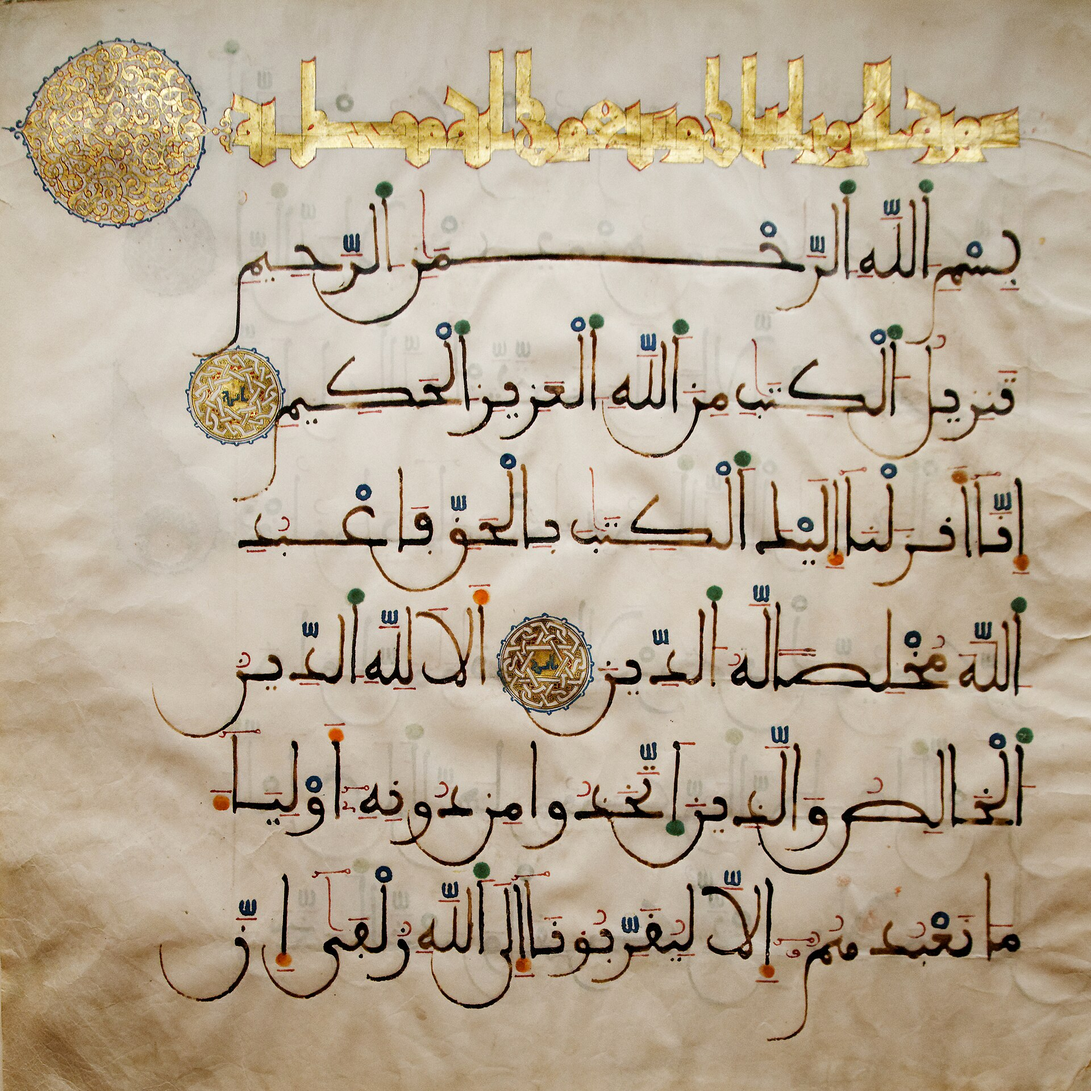
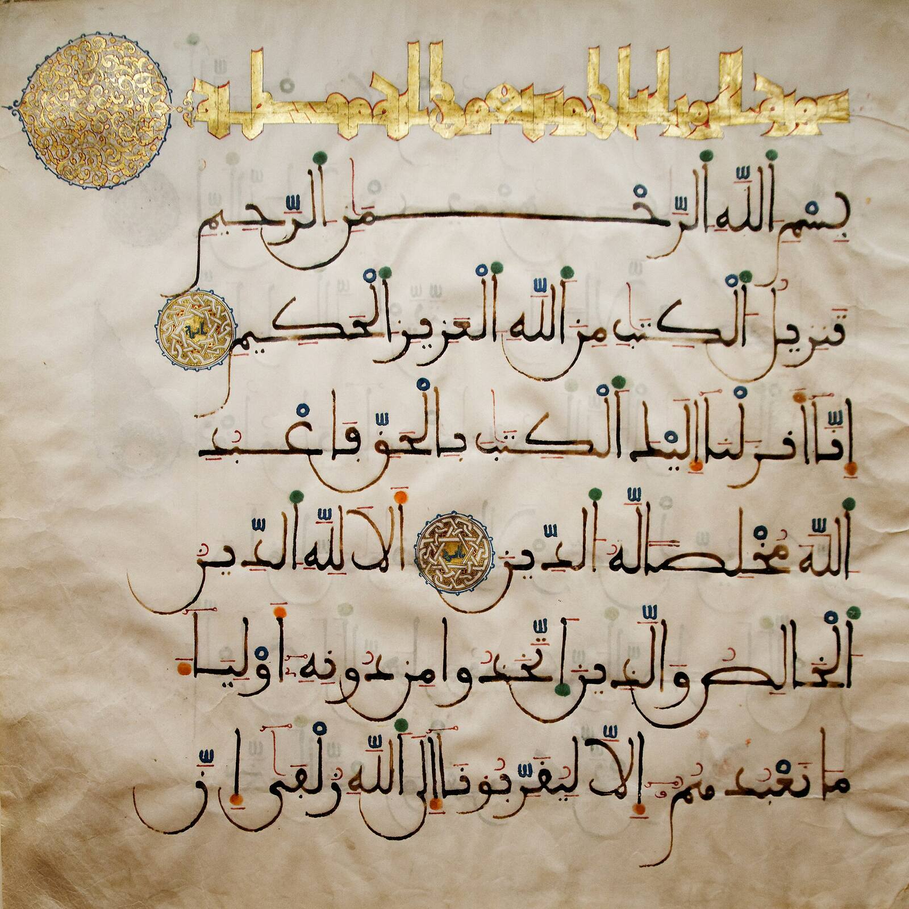
Warm up the bottom bar's tabs first (#577)
* Fetch the bottom bar's tabs first when warming up

On a slow phone the background queue takes seconds, so a bar tab tapped
early waited its turn. Measured (4x CPU, live API, tap 1.5s after load):
Quran 426ms -> 162ms; other tabs unchanged.

Claude-Session: https://claude.ai/code/session_01Kf2x99Bn2ggLLPZYn8hQbc

* Test title says only what firstThese guarantees

Claude-Session: https://claude.ai/code/session_01Kf2x99Bn2ggLLPZYn8hQbc

* Shrink the landing page's manuscript photo (811 KB → 317 KB)

It shows at most screen width, so 1600 px is enough; looks the same by eye.

Claude-Session: https://claude.ai/code/session_01Kf2x99Bn2ggLLPZYn8hQbc

---------

diff --git a/frontend/src/App.jsx b/frontend/src/App.jsx
@@ -1,8 +1,8 @@
-import { Activity, Suspense, lazy, useCallback, useEffect, useState } from 'react'
+import { Activity, Suspense, lazy, useCallback, useEffect, useRef, useState } from 'react'
 import { QueryClient, QueryClientProvider } from '@tanstack/react-query'
 
 import { FIXED, GROUPS, HOME, LISTED, TABS, accentOf } from './lib/tabs'
-import { idle, inTurn } from './lib/warm'
+import { firstThese, idle, inTurn } from './lib/warm'
 import { useHealth } from './lib/useHealth'
 import { moodFrom } from './lib/mood'
 import { TOOLS } from './lib/tools'
@@ -64,7 +64,13 @@ function AppContent() {
 
   // Every tab's opening data, fetched once the page is idle, one tab at a time
   // so a tab pressed meanwhile is not queued behind all the others (lib/warm).
-  useEffect(() => { idle(() => inTurn(TABS.map((t) => () => openTab(t.id)))) }, [])
+  // The bar's tabs go first: on a slow phone the queue takes seconds, and a tab
+  // that has to wait its turn opened in ~430ms where one fetched ahead took ~160ms.
+  const openingDock = useRef(dock)
+  useEffect(() => {
+    const order = firstThese(TABS.map((t) => t.id), openingDock.current)
+    idle(() => inTurn(order.map((id) => () => openTab(id))))
+  }, [])
 
   // The header is pinned, so anything else pinned sits under it: its height is
   // published as --app-header-h, kept true as it wraps on a narrow screen.

diff --git a/frontend/src/lib/warm.test.js b/frontend/src/lib/warm.test.js
@@ -2,7 +2,7 @@ import { QueryClient } from '@tanstack/react-query'
 import { describe, expect, it, vi } from 'vitest'
 
 import { hadithOpen } from '../api'
-import { load, onHover, warm } from './warm'
+import { firstThese, load, onHover, warm } from './warm'
 
 const query = (fn) => ({ queryKey: ['k'], queryFn: fn })
 
@@ -66,5 +66,15 @@ describe('idle and inTurn', () => {
     release()
     await done
     expect(log).toEqual(['a', 'c'])
+  })
+})
+
+describe('firstThese', () => {
+  it('moves the chosen ids to the front in their own order, keeping the rest in place', () => {
+    expect(firstThese(['home', 'nahw', 'quran', 'dict', 'quiz'], ['quiz', 'home'])).toEqual(['quiz', 'home', 'nahw', 'quran', 'dict'])
+  })
+
+  it('ignores a chosen id that is not in the list', () => {
+    expect(firstThese(['a', 'b'], ['gone', 'b'])).toEqual(['b', 'a'])
   })
 })

diff --git a/frontend/src/lib/warm.js b/frontend/src/lib/warm.js
@@ -19,6 +19,13 @@ export async function inTurn(steps) {
   for (const step of steps) await Promise.resolve().then(step).catch(() => {})
 }
 
+// `ids` with any of `first` it holds moved to the front, in `first`'s order:
+// the queue for inTurn when some steps are likelier to be wanted soon.
+export const firstThese = (ids, first) => [
+  ...first.filter((id) => ids.includes(id)),
+  ...ids.filter((id) => !first.includes(id)),
+]
+
 export const warm = (client, query) => idle(() => client.prefetchQuery(query))
 
 // A tab's `open` step for the common case: its opening data is one query.
